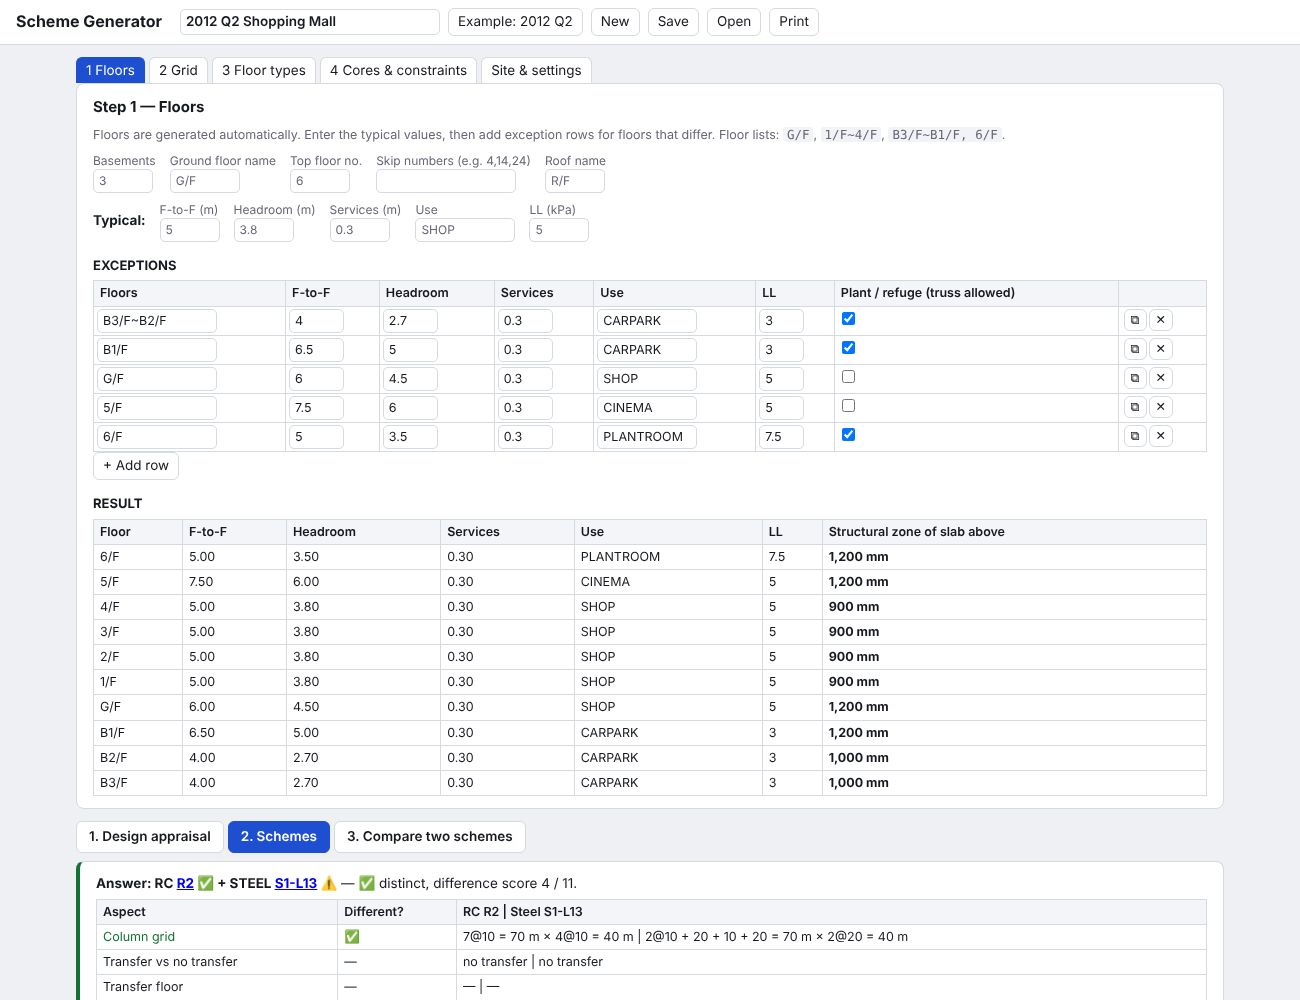
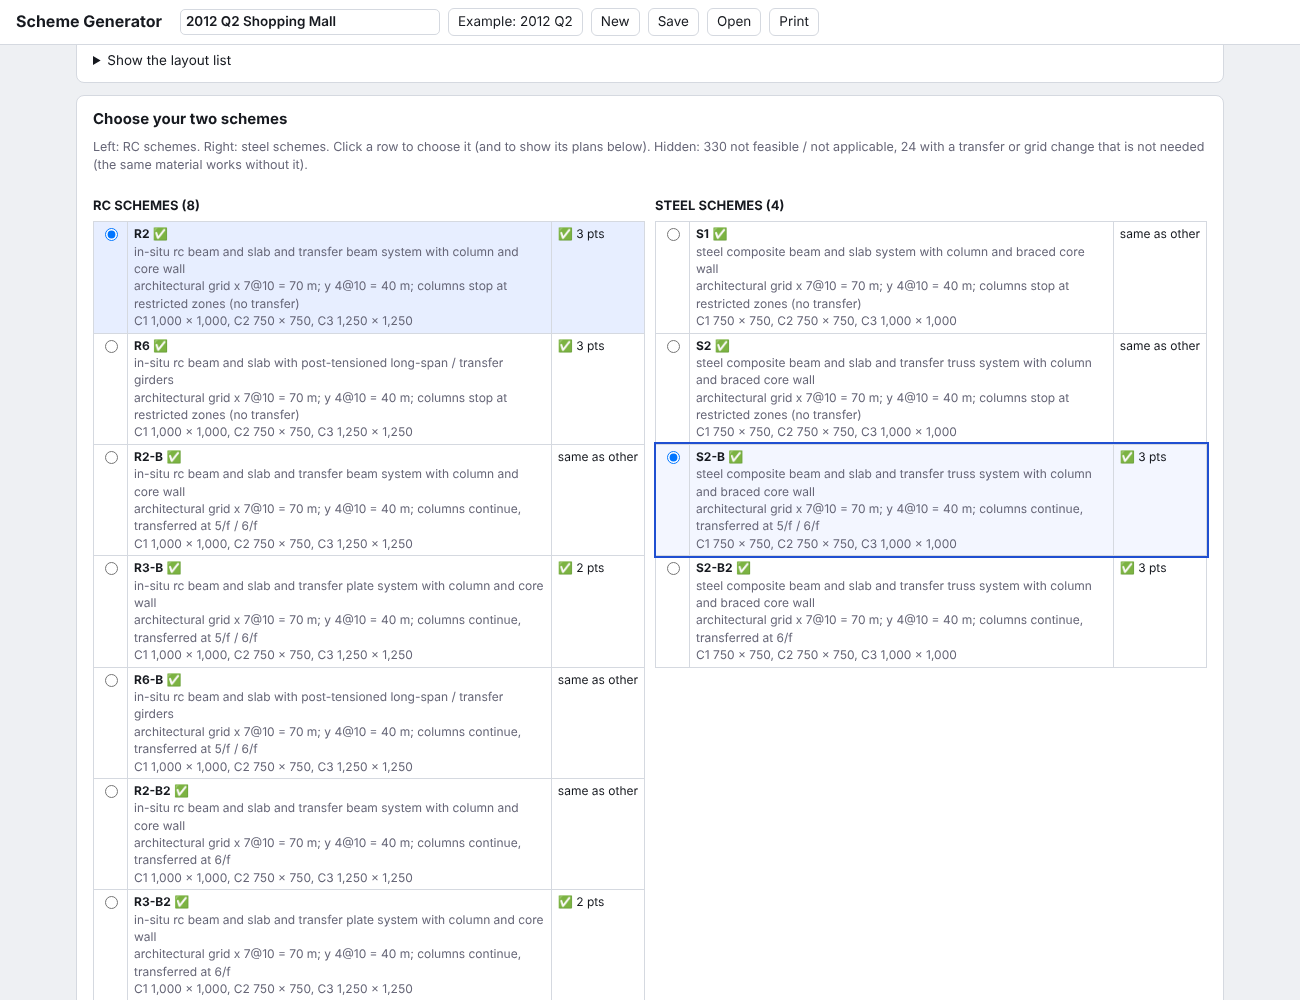
Scheme tool: practical max column spacing per material, transfer kept only when it saves long-span floors
Claude-Session: https://claude.ai/code/session_013VHAzkVzNuS6tKq2iLBUj9

Changed region(s): [[0.0615, 0.031, 0.9231, 1.0], [0.8615, 0.217, 0.9231, 0.248]]

diff --git a/structural-scheme-tool/index.html b/structural-scheme-tool/index.html
@@ -531,14 +531,14 @@ const DEF_SET = {
   tol:15, step:250, minSize:500,
   slabRC:150, slabComp:125, sdSlab:26, sdSec:23, sdMain:26, sdCant:7, cantRC:5, cantSt:7,
   kRC:20, kSt:17.8, ef:1.25, tf:1.5, nRC:27.7, nComp:39.95, fcuB:45, py:355, sdPT:20, plateRatio:6, wallRatio:6, inclMax:0.25,
-  slenderBraced:15, colGroups:3, zoneOffset:1, layouts:1, spRound:0.25, maxLayouts:30, maxBay:20, sdFlat:26, vcFlat:0.6
+  slenderBraced:15, colGroups:3, zoneOffset:1, layouts:1, spRound:0.25, spanRC:12, spanSt:18, maxLayouts:30, maxBay:20, sdFlat:26, vcFlat:0.6
 };
 const SET_LABELS = {
   tol:'"Slightly off" tolerance (%)', step:'Size step (mm)', minSize:'Min. column size (mm)',
   slabRC:'RC slab thickness (mm)', slabComp:'Composite slab thickness (mm)', sdSlab:'Slab S/D limit', sdSec:'Secondary beam S/D (×10/L if L>10)', sdMain:'Main / transfer beam S/D (×10/L if L>10)', sdCant:'Cantilever S/D limit',
   cantRC:'RC cantilever max. span (m)', cantSt:'Steel cantilever max. span (m)',
   kRC:'RC load per floor (kPa)', kSt:'Steel WULS per floor (kPa)', ef:'Elastic factor (columns)', tf:'Transfer factor', nRC:'RC column N/Ac (fcu60, 2%)', nComp:'Composite column N/Ac', fcuB:'Beam fcu (MPa)', py:'Steel py (MPa)',
-  sdPT:'PT girder S/D (not in template)', plateRatio:'Transfer plate span/thickness', wallRatio:'Storey-deep wall span/height limit', inclMax:'Inclined column max. offset/height', slenderBraced:'Column slenderness limit (braced)', layouts:'Generate column layouts (1 = yes, 0 = only the architectural grid)', spRound:'Round column spacing to (m, 0 = exact division)', maxLayouts:'Max. column layouts fully checked', maxBay:'Max. column spacing tried (m)', sdFlat:'Flat slab span / eff. depth (with drops)', vcFlat:'Flat slab vc for punching (MPa)', zoneOffset:'Columns at restricted-zone edge: 1 = offset outside (face on zone edge), 0 = keep on grid', colGroups:'Column types: 1 = uniform, 2 = interior / edge, 3 = + transfer support, 0 = each column'
+  sdPT:'PT girder S/D (not in template)', plateRatio:'Transfer plate span/thickness', wallRatio:'Storey-deep wall span/height limit', inclMax:'Inclined column max. offset/height', slenderBraced:'Column slenderness limit (braced)', layouts:'Generate column layouts (1 = yes, 0 = only the architectural grid)', spanRC:'RC: max. column spacing on the typical grid (m)', spanSt:'Steel: max. column spacing on the typical grid (m)', spRound:'Round column spacing to (m, 0 = exact division)', maxLayouts:'Max. column layouts fully checked', maxBay:'Max. column spacing tried (m)', sdFlat:'Flat slab span / eff. depth (with drops)', vcFlat:'Flat slab vc for punching (MPa)', zoneOffset:'Columns at restricted-zone edge: 1 = offset outside (face on zone edge), 0 = keep on grid', colGroups:'Column types: 1 = uniform, 2 = interior / edge, 3 = + transfer support, 0 = each column'
 };
 const KINDS = [
   ['core','Core wall (rigid support)'],
@@ -848,10 +848,12 @@ function* evalGen(W){
   // a transfer or a change of column grid must be needed: if the same material still works without it, it is meaningless
   const names=out.length?out[0].C.names:[]; const cache=new Map();
   const viableAlt=(alt,mat)=>{ const key=JSON.stringify([alt.sg?[alt.sg.x.pos,alt.sg.y.pos]:'arch',alt.bands?alt.bands.map(b=>[b.from,b.g.x.pos,b.g.y.pos]):0,alt.tmode,alt.from??null,mat]);
-    if (cache.has(key)) return cache.get(key); let ok=false;
-    if (!alt.sg&&!alt.bands&&alt.tmode==='stop') ok=out.some(e=>e.lay.id==='A'&&e.sc.mat===mat&&feasibleE(e));
-    else { const C=compile(W,null,null,alt); if(!C.err.length){ const M=buildModel(C.S); if(!M.err.length) ok=SCHEMES.filter(s0=>s0.mat===mat).some(s0=>{ const R=assess(W,{...s0,lay:alt},C,M); return R.applicable&&R.worst!=='fail'; }); } }
-    cache.set(key,ok); return ok; };
+    if (cache.has(key)) return cache.get(key); let ok=false, ls=0;
+    if (!alt.sg&&!alt.bands&&alt.tmode==='stop'){ const A=out.filter(e=>e.lay.id==='A'); ok=A.some(e=>e.sc.mat===mat&&feasibleE(e)); ls=A.length?lsFloors(A[0].M):0; }
+    else { const C=compile(W,null,null,alt); if(!C.err.length){ const M=buildModel(C.S); if(!M.err.length){ ls=lsFloors(M); ok=SCHEMES.filter(s0=>s0.mat===mat).some(s0=>{ const R=assess(W,{...s0,lay:alt},C,M); return R.applicable&&R.worst!=='fail'; }); } } }
+    const r={ok,ls}; cache.set(key,r); return r; };
+  // floors that need long-span (non-transfer) members over restricted zones
+  function lsFloors(M){ return new Set(M.members.filter(m=>!m.carries).map(m=>m.k)).size; }
   const altsOf=lay=>{ const A=[]; const mk=arr=>arr.length===1?{sg:arr[0].g,tmode:'stop'}:{bands:arr,tmode:'stop'};
     if (lay.tmode==='keep') A.push({what:'the same grid without the transfer (columns stop at the restricted zones)',lay:{...lay,tmode:'stop',from:null}});
     if (lay.bands){ const bs=lay.bands; for(let i=1;i<bs.length;i++){ const lo=bs[i-1].g, hi=bs[i].g;
@@ -862,14 +864,17 @@ function* evalGen(W){
   let n2=0; const todo=lays.filter(l=>l.tmode==='keep'||l.bands);
   for (const lay of todo){ const alts=altsOf(lay);
     for (const mat of ['rc','st']){ const es=out.filter(e=>e.lay===lay&&e.sc.mat===mat&&feasibleE(e)); if(!es.length) continue;
-      const hit=alts.find(a=>viableAlt(a.lay,mat)); if (hit) es.forEach(e=>{ e.R.meaningless=`Not needed: a ${mat==='rc'?'RC':'steel'} scheme also works with ${hit.what}.`; }); }
+      // needed = the alternative fails, or the transfer / grid change saves long-span members on at least two floors
+      const own=lsFloors(es[0].M); const hit=alts.find(a=>{ const r=viableAlt(a.lay,mat); return r.ok&&r.ls-own<2; });
+      if (hit) es.forEach(e=>{ e.R.meaningless=`Not needed: a ${mat==='rc'?'RC':'steel'} scheme also works with ${hit.what}, with long-span members on about as many floors.`; });
+      else es.forEach(e=>{ const a=alts.map(x=>({x,r:viableAlt(x.lay,mat)})).find(y=>y.r.ok); e.R.benefit=a?`Without it (${a.x.what}) long-span members are needed on ${a.r.ls} floors; with it on ${own}.`:'Without it no scheme of this material works.'; }); }
     n2++; yield {phase:'Checking that transfers / grid changes are needed',i:n2,n:todo.length}; }
   return {list:out,lays};
 }
 function evaluate(W){ const g=evalGen(W); let x; while(!(x=g.next()).done); return x.value; }
 const SYS_CAT={RC:'GIRDER',ST:'GIRDER',PT:'GIRDER',RCWALL:'STOREY-DEEP',STRUSS:'STOREY-DEEP',PLATE:'PLATE',INCL:'INCLINED COLUMN',HANG:'HANGER'};
-function layDiff(a,b){ if(a.gkey===b.gkey) return false; if(!!a.band!==!!b.band||!!a.band3!==!!b.band3) return true; if(a.band3&&b.band3&&a.band3.u!==b.band3.u) return true; if(a.nx!==b.nx||a.ny!==b.ny) return true;
-  const mb=l=>[l.gx?l.gx.maxB:10,l.gy?l.gy.maxB:10]; const A=mb(a), B=mb(b); if(Math.abs(A[0]-B[0])>=1.5||Math.abs(A[1]-B[1])>=1.5) return true;
+function layDiff(a,b){ if(a.gkey===b.gkey) return false; if(!!a.band!==!!b.band||!!a.band3!==!!b.band3) return true; if(a.band3&&b.band3&&a.band3.u!==b.band3.u) return true;
+  const mb=l=>[l.gx?l.gx.maxB:10,l.gy?l.gy.maxB:10]; const A=mb(a), B=mb(b); if(Math.abs(A[0]-B[0])>=2.5||Math.abs(A[1]-B[1])>=2.5) return true;
   if (a.band&&b.band&&(a.band.u!==b.band.u||a.ux.pos.length!==b.ux.pos.length||a.uy.pos.length!==b.uy.pos.length)) return true; return false; }
 function sigOf(e){ const tr=[...new Set([...e.R.used].map(u=>SYS_CAT[u]).filter(Boolean))].sort(); return {lay:e.lay.gkey,tm:e.R.checks.some(c=>c.cat==='Transfer'||c.cat==='Transfer plate'||c.cat==='Inclined column'||c.cat==='Hanger + truss')?'TRANSFER':'NO TRANSFER',floor:e.sc.floor==='flat'?'FLAT SLAB':'BEAM AND SLAB',tr:tr.join(' + ')||'NONE'}; }
 // strong = column layout, floor system, or a different transfer principle (plate / hanger / inclined column);
@@ -903,7 +908,8 @@ function recPair(L){
   const rank=(a,b)=>V_RANK[a.R.worst]-V_RANK[b.R.worst]||(a.lay.arch?0:1)-(b.lay.arch?0:1)||((a.lay.scr&&a.lay.scr.u)||0)-((b.lay.scr&&b.lay.scr.u)||0);
   const fe=L.filter(feasibleE), rc=fe.filter(e=>e.sc.mat==='rc').sort(rank), stl=fe.filter(e=>e.sc.mat==='st').sort(rank);
   // default: the RC / steel pair that differs the most (passing schemes first, then uniform spacing)
-  const pen=e=>V_RANK[e.R.worst]*4+((e.lay.scr&&e.lay.scr.u)||0);
+  const pref=e=>{ const b=maxBay(e), [lo,hi]=e.sc.mat==='rc'?[8,10.5]:[15,18]; return b<lo?(lo-b)/3:b>hi?(b-hi)/1.5:0; };
+  const pen=e=>V_RANK[e.R.worst]*4+((e.lay.scr&&e.lay.scr.u)||0)+pref(e);
   let best=null; rc.forEach(a=>stl.forEach(b=>{ if(!distinctBy(a,b).length) return; const sc=aScore(aspects(a,b))-pen(a)-pen(b); if(!best||sc>best.sc) best={a,b,sc}; }));
   let a=rc.find(e=>e.sc.id===view.pickRC)||(best&&best.a)||rc[0], b=stl.find(e=>e.sc.id===view.pickST)||(best&&best.b)||stl[0];
   if (!a||!b) return a||b?{a:a||b,b:null,d:[],rc,stl}:null;
@@ -1082,6 +1088,14 @@ function assess(W,sc,C,M){
       }); });
     if (worst) add({cat:'Column spacing',where:t.name,item:`MIN. ${t.spType==='e'?'CLEAR':'C/C'} SPACING ${f2(worst.val)} m (${worst.a.label}–${worst.b.label})`,calc:`required ≥ ${minSp} m ${t.spType==='e'?'clear':'c/c'}`,need:minSp,have:worst.val,ratio:minSp/worst.val,strict:true,fix:'',ti,minSp});
   });
+  /* --- practical column spacing per material: a longer bay is accepted only where a restricted zone / core forces it --- */
+  { const lim=sc.mat==='rc'?num(st.spanRC)||12:num(st.spanSt)||18; let worstB=null;
+    M.grids.filter(g=>g.cols).forEach(g=>{ for(let i=0;i<g.gx.pos.length-1;i++) for(let j=0;j<g.gy.pos.length-1;j++){
+      const xa=g.gx.pos[i], xb=g.gx.pos[i+1], ya=g.gy.pos[j], yb=g.gy.pos[j+1]; const sp=Math.max(xb-xa,yb-ya); if(sp<=lim+1e-6) continue;
+      let used=false; for(let s=g.s1;s<=g.s2&&!used;s++) if(M.slabAt(s+1,(xa+xb)/2,(ya+yb)/2)) used=true; if(!used) continue;
+      const A=(xb-xa)*(yb-ya), forced=M.zones.some(z=>['void','colfree','core','dbl'].includes(z.type)&&Math.max(0,Math.min(xb,z.x2)-Math.max(xa,z.x1))*Math.max(0,Math.min(yb,z.y2)-Math.max(ya,z.y1))>=0.5*A);
+      if (!forced&&(!worstB||sp>worstB.sp)) worstB={sp,lbl:`${M.ptLabel(xa,ya)}–${M.ptLabel(xb,yb)}`}; } });
+    if (worstB) add({cat:'Grid span',where:worstB.lbl,item:`COLUMN SPACING ${f2(worstB.sp)} m`,calc:`> ${lim} m practical max. for ${sc.mat==='rc'?'RC':'steel'} (not forced by a restricted zone)`,need:worstB.sp,have:lim,ratio:worstB.sp/lim,strict:true,fix:''}); }
   /* --- cantilevers at slab edges --- */
   const cants=[];
   (W.types||[]).forEach((t,ti)=>{ const ss=[]; C.typeOf.forEach((x,s)=>{ if(x===ti) ss.push(s); }); if(!ss.length) return;

diff --git a/structural-scheme-tool/src/app.js b/structural-scheme-tool/src/app.js
@@ -10,14 +10,14 @@ const DEF_SET = {
   tol:15, step:250, minSize:500,
   slabRC:150, slabComp:125, sdSlab:26, sdSec:23, sdMain:26, sdCant:7, cantRC:5, cantSt:7,
   kRC:20, kSt:17.8, ef:1.25, tf:1.5, nRC:27.7, nComp:39.95, fcuB:45, py:355, sdPT:20, plateRatio:6, wallRatio:6, inclMax:0.25,
-  slenderBraced:15, colGroups:3, zoneOffset:1, layouts:1, spRound:0.25, maxLayouts:30, maxBay:20, sdFlat:26, vcFlat:0.6
+  slenderBraced:15, colGroups:3, zoneOffset:1, layouts:1, spRound:0.25, spanRC:12, spanSt:18, maxLayouts:30, maxBay:20, sdFlat:26, vcFlat:0.6
 };
 const SET_LABELS = {
   tol:'"Slightly off" tolerance (%)', step:'Size step (mm)', minSize:'Min. column size (mm)',
   slabRC:'RC slab thickness (mm)', slabComp:'Composite slab thickness (mm)', sdSlab:'Slab S/D limit', sdSec:'Secondary beam S/D (×10/L if L>10)', sdMain:'Main / transfer beam S/D (×10/L if L>10)', sdCant:'Cantilever S/D limit',
   cantRC:'RC cantilever max. span (m)', cantSt:'Steel cantilever max. span (m)',
   kRC:'RC load per floor (kPa)', kSt:'Steel WULS per floor (kPa)', ef:'Elastic factor (columns)', tf:'Transfer factor', nRC:'RC column N/Ac (fcu60, 2%)', nComp:'Composite column N/Ac', fcuB:'Beam fcu (MPa)', py:'Steel py (MPa)',
-  sdPT:'PT girder S/D (not in template)', plateRatio:'Transfer plate span/thickness', wallRatio:'Storey-deep wall span/height limit', inclMax:'Inclined column max. offset/height', slenderBraced:'Column slenderness limit (braced)', layouts:'Generate column layouts (1 = yes, 0 = only the architectural grid)', spRound:'Round column spacing to (m, 0 = exact division)', maxLayouts:'Max. column layouts fully checked', maxBay:'Max. column spacing tried (m)', sdFlat:'Flat slab span / eff. depth (with drops)', vcFlat:'Flat slab vc for punching (MPa)', zoneOffset:'Columns at restricted-zone edge: 1 = offset outside (face on zone edge), 0 = keep on grid', colGroups:'Column types: 1 = uniform, 2 = interior / edge, 3 = + transfer support, 0 = each column'
+  sdPT:'PT girder S/D (not in template)', plateRatio:'Transfer plate span/thickness', wallRatio:'Storey-deep wall span/height limit', inclMax:'Inclined column max. offset/height', slenderBraced:'Column slenderness limit (braced)', layouts:'Generate column layouts (1 = yes, 0 = only the architectural grid)', spanRC:'RC: max. column spacing on the typical grid (m)', spanSt:'Steel: max. column spacing on the typical grid (m)', spRound:'Round column spacing to (m, 0 = exact division)', maxLayouts:'Max. column layouts fully checked', maxBay:'Max. column spacing tried (m)', sdFlat:'Flat slab span / eff. depth (with drops)', vcFlat:'Flat slab vc for punching (MPa)', zoneOffset:'Columns at restricted-zone edge: 1 = offset outside (face on zone edge), 0 = keep on grid', colGroups:'Column types: 1 = uniform, 2 = interior / edge, 3 = + transfer support, 0 = each column'
 };
 const KINDS = [
   ['core','Core wall (rigid support)'],
@@ -327,10 +327,12 @@ function* evalGen(W){
   // a transfer or a change of column grid must be needed: if the same material still works without it, it is meaningless
   const names=out.length?out[0].C.names:[]; const cache=new Map();
   const viableAlt=(alt,mat)=>{ const key=JSON.stringify([alt.sg?[alt.sg.x.pos,alt.sg.y.pos]:'arch',alt.bands?alt.bands.map(b=>[b.from,b.g.x.pos,b.g.y.pos]):0,alt.tmode,alt.from??null,mat]);
-    if (cache.has(key)) return cache.get(key); let ok=false;
-    if (!alt.sg&&!alt.bands&&alt.tmode==='stop') ok=out.some(e=>e.lay.id==='A'&&e.sc.mat===mat&&feasibleE(e));
-    else { const C=compile(W,null,null,alt); if(!C.err.length){ const M=buildModel(C.S); if(!M.err.length) ok=SCHEMES.filter(s0=>s0.mat===mat).some(s0=>{ const R=assess(W,{...s0,lay:alt},C,M); return R.applicable&&R.worst!=='fail'; }); } }
-    cache.set(key,ok); return ok; };
+    if (cache.has(key)) return cache.get(key); let ok=false, ls=0;
+    if (!alt.sg&&!alt.bands&&alt.tmode==='stop'){ const A=out.filter(e=>e.lay.id==='A'); ok=A.some(e=>e.sc.mat===mat&&feasibleE(e)); ls=A.length?lsFloors(A[0].M):0; }
+    else { const C=compile(W,null,null,alt); if(!C.err.length){ const M=buildModel(C.S); if(!M.err.length){ ls=lsFloors(M); ok=SCHEMES.filter(s0=>s0.mat===mat).some(s0=>{ const R=assess(W,{...s0,lay:alt},C,M); return R.applicable&&R.worst!=='fail'; }); } } }
+    const r={ok,ls}; cache.set(key,r); return r; };
+  // floors that need long-span (non-transfer) members over restricted zones
+  function lsFloors(M){ return new Set(M.members.filter(m=>!m.carries).map(m=>m.k)).size; }
   const altsOf=lay=>{ const A=[]; const mk=arr=>arr.length===1?{sg:arr[0].g,tmode:'stop'}:{bands:arr,tmode:'stop'};
     if (lay.tmode==='keep') A.push({what:'the same grid without the transfer (columns stop at the restricted zones)',lay:{...lay,tmode:'stop',from:null}});
     if (lay.bands){ const bs=lay.bands; for(let i=1;i<bs.length;i++){ const lo=bs[i-1].g, hi=bs[i].g;
@@ -341,14 +343,17 @@ function* evalGen(W){
   let n2=0; const todo=lays.filter(l=>l.tmode==='keep'||l.bands);
   for (const lay of todo){ const alts=altsOf(lay);
     for (const mat of ['rc','st']){ const es=out.filter(e=>e.lay===lay&&e.sc.mat===mat&&feasibleE(e)); if(!es.length) continue;
-      const hit=alts.find(a=>viableAlt(a.lay,mat)); if (hit) es.forEach(e=>{ e.R.meaningless=`Not needed: a ${mat==='rc'?'RC':'steel'} scheme also works with ${hit.what}.`; }); }
+      // needed = the alternative fails, or the transfer / grid change saves long-span members on at least two floors
+      const own=lsFloors(es[0].M); const hit=alts.find(a=>{ const r=viableAlt(a.lay,mat); return r.ok&&r.ls-own<2; });
+      if (hit) es.forEach(e=>{ e.R.meaningless=`Not needed: a ${mat==='rc'?'RC':'steel'} scheme also works with ${hit.what}, with long-span members on about as many floors.`; });
+      else es.forEach(e=>{ const a=alts.map(x=>({x,r:viableAlt(x.lay,mat)})).find(y=>y.r.ok); e.R.benefit=a?`Without it (${a.x.what}) long-span members are needed on ${a.r.ls} floors; with it on ${own}.`:'Without it no scheme of this material works.'; }); }
     n2++; yield {phase:'Checking that transfers / grid changes are needed',i:n2,n:todo.length}; }
   return {list:out,lays};
 }
 function evaluate(W){ const g=evalGen(W); let x; while(!(x=g.next()).done); return x.value; }
 const SYS_CAT={RC:'GIRDER',ST:'GIRDER',PT:'GIRDER',RCWALL:'STOREY-DEEP',STRUSS:'STOREY-DEEP',PLATE:'PLATE',INCL:'INCLINED COLUMN',HANG:'HANGER'};
-function layDiff(a,b){ if(a.gkey===b.gkey) return false; if(!!a.band!==!!b.band||!!a.band3!==!!b.band3) return true; if(a.band3&&b.band3&&a.band3.u!==b.band3.u) return true; if(a.nx!==b.nx||a.ny!==b.ny) return true;
-  const mb=l=>[l.gx?l.gx.maxB:10,l.gy?l.gy.maxB:10]; const A=mb(a), B=mb(b); if(Math.abs(A[0]-B[0])>=1.5||Math.abs(A[1]-B[1])>=1.5) return true;
+function layDiff(a,b){ if(a.gkey===b.gkey) return false; if(!!a.band!==!!b.band||!!a.band3!==!!b.band3) return true; if(a.band3&&b.band3&&a.band3.u!==b.band3.u) return true;
+  const mb=l=>[l.gx?l.gx.maxB:10,l.gy?l.gy.maxB:10]; const A=mb(a), B=mb(b); if(Math.abs(A[0]-B[0])>=2.5||Math.abs(A[1]-B[1])>=2.5) return true;
   if (a.band&&b.band&&(a.band.u!==b.band.u||a.ux.pos.length!==b.ux.pos.length||a.uy.pos.length!==b.uy.pos.length)) return true; return false; }
 function sigOf(e){ const tr=[...new Set([...e.R.used].map(u=>SYS_CAT[u]).filter(Boolean))].sort(); return {lay:e.lay.gkey,tm:e.R.checks.some(c=>c.cat==='Transfer'||c.cat==='Transfer plate'||c.cat==='Inclined column'||c.cat==='Hanger + truss')?'TRANSFER':'NO TRANSFER',floor:e.sc.floor==='flat'?'FLAT SLAB':'BEAM AND SLAB',tr:tr.join(' + ')||'NONE'}; }
 // strong = column layout, floor system, or a different transfer principle (plate / hanger / inclined column);
@@ -382,7 +387,8 @@ function recPair(L){
   const rank=(a,b)=>V_RANK[a.R.worst]-V_RANK[b.R.worst]||(a.lay.arch?0:1)-(b.lay.arch?0:1)||((a.lay.scr&&a.lay.scr.u)||0)-((b.lay.scr&&b.lay.scr.u)||0);
   const fe=L.filter(feasibleE), rc=fe.filter(e=>e.sc.mat==='rc').sort(rank), stl=fe.filter(e=>e.sc.mat==='st').sort(rank);
   // default: the RC / steel pair that differs the most (passing schemes first, then uniform spacing)
-  const pen=e=>V_RANK[e.R.worst]*4+((e.lay.scr&&e.lay.scr.u)||0);
+  const pref=e=>{ const b=maxBay(e), [lo,hi]=e.sc.mat==='rc'?[8,10.5]:[15,18]; return b<lo?(lo-b)/3:b>hi?(b-hi)/1.5:0; };
+  const pen=e=>V_RANK[e.R.worst]*4+((e.lay.scr&&e.lay.scr.u)||0)+pref(e);
   let best=null; rc.forEach(a=>stl.forEach(b=>{ if(!distinctBy(a,b).length) return; const sc=aScore(aspects(a,b))-pen(a)-pen(b); if(!best||sc>best.sc) best={a,b,sc}; }));
   let a=rc.find(e=>e.sc.id===view.pickRC)||(best&&best.a)||rc[0], b=stl.find(e=>e.sc.id===view.pickST)||(best&&best.b)||stl[0];
   if (!a||!b) return a||b?{a:a||b,b:null,d:[],rc,stl}:null;
@@ -561,6 +567,14 @@ function assess(W,sc,C,M){
       }); });
     if (worst) add({cat:'Column spacing',where:t.name,item:`MIN. ${t.spType==='e'?'CLEAR':'C/C'} SPACING ${f2(worst.val)} m (${worst.a.label}–${worst.b.label})`,calc:`required ≥ ${minSp} m ${t.spType==='e'?'clear':'c/c'}`,need:minSp,have:worst.val,ratio:minSp/worst.val,strict:true,fix:'',ti,minSp});
   });
+  /* --- practical column spacing per material: a longer bay is accepted only where a restricted zone / core forces it --- */
+  { const lim=sc.mat==='rc'?num(st.spanRC)||12:num(st.spanSt)||18; let worstB=null;
+    M.grids.filter(g=>g.cols).forEach(g=>{ for(let i=0;i<g.gx.pos.length-1;i++) for(let j=0;j<g.gy.pos.length-1;j++){
+      const xa=g.gx.pos[i], xb=g.gx.pos[i+1], ya=g.gy.pos[j], yb=g.gy.pos[j+1]; const sp=Math.max(xb-xa,yb-ya); if(sp<=lim+1e-6) continue;
+      let used=false; for(let s=g.s1;s<=g.s2&&!used;s++) if(M.slabAt(s+1,(xa+xb)/2,(ya+yb)/2)) used=true; if(!used) continue;
+      const A=(xb-xa)*(yb-ya), forced=M.zones.some(z=>['void','colfree','core','dbl'].includes(z.type)&&Math.max(0,Math.min(xb,z.x2)-Math.max(xa,z.x1))*Math.max(0,Math.min(yb,z.y2)-Math.max(ya,z.y1))>=0.5*A);
+      if (!forced&&(!worstB||sp>worstB.sp)) worstB={sp,lbl:`${M.ptLabel(xa,ya)}–${M.ptLabel(xb,yb)}`}; } });
+    if (worstB) add({cat:'Grid span',where:worstB.lbl,item:`COLUMN SPACING ${f2(worstB.sp)} m`,calc:`> ${lim} m practical max. for ${sc.mat==='rc'?'RC':'steel'} (not forced by a restricted zone)`,need:worstB.sp,have:lim,ratio:worstB.sp/lim,strict:true,fix:''}); }
   /* --- cantilevers at slab edges --- */
   const cants=[];
   (W.types||[]).forEach((t,ti)=>{ const ss=[]; C.typeOf.forEach((x,s)=>{ if(x===ti) ss.push(s); }); if(!ss.length) return;
